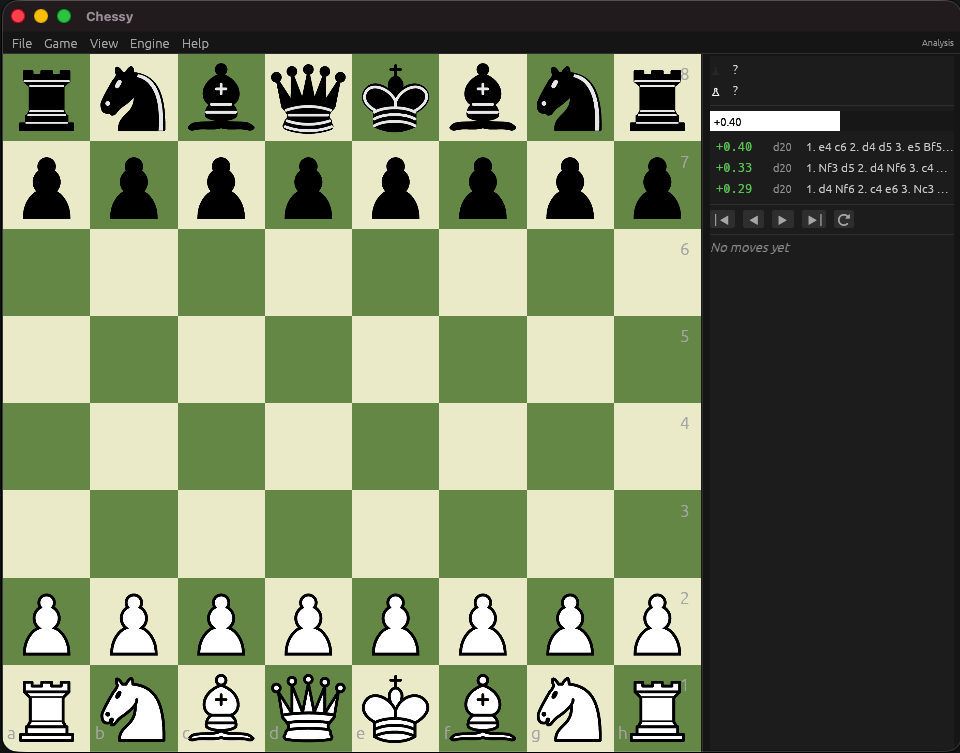
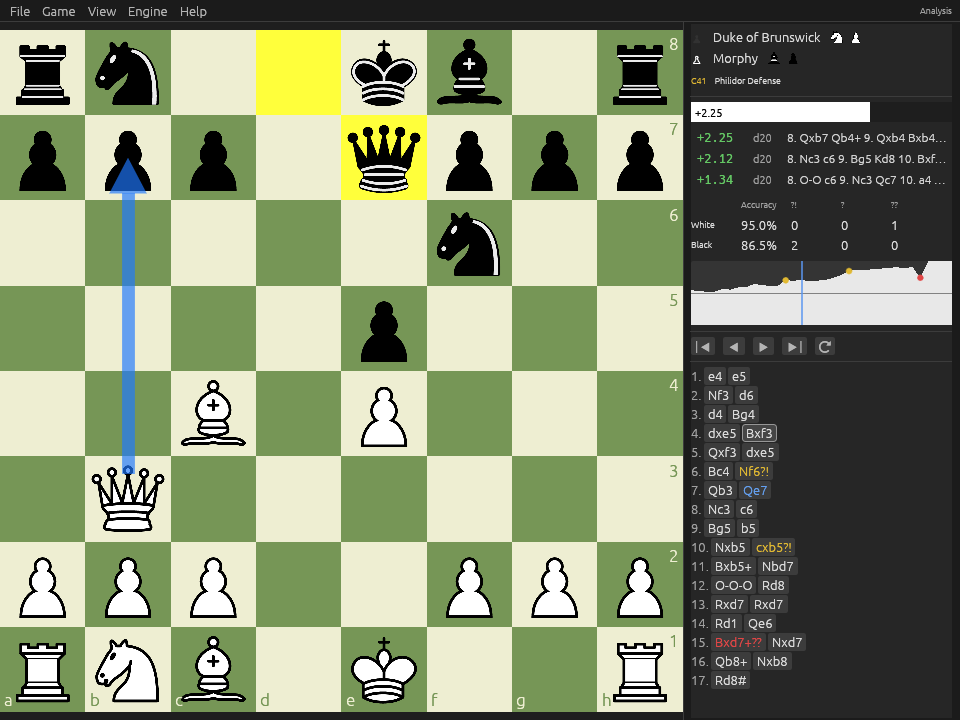
Update the README with the new features and a new screenshot

diff --git a/README.md b/README.md
@@ -10,11 +10,45 @@
 
 ## Features
 
-- Native desktop UI powered by [egui](https://github.com/emilk/egui)
-- [Stockfish](https://stockfishchess.org/) engine integration with multi-line evaluation
-- Evaluation panel with score, depth, and suggested move sequences
-- PGN import/export
-- Move history navigation
+**Analysis**
+
+- [Stockfish](https://stockfishchess.org/) engine integration with multi-line evaluation, depth, and suggested move sequences
+- Best-move arrow on the board, plus your own arrows and square marks (right-drag and right-click)
+- Game review: accuracy per side, inaccuracy / mistake / blunder marks in the move list, and a clickable evaluation graph
+- Opening names with ECO codes, matched by position so transpositions are recognised
+- Variations: try another move at any point without losing the original line, switch between lines, promote or delete them
+- Set up any position, or paste a FEN
+
+**Playing against the engine**
+
+- Strength presets or a custom Elo limit
+- Chess clocks: 1+0, 3+2, 5+0, 10+0, 15+10 and 30+0, with increments and loss on time
+- Takeback, hint and resign, and "Play from Current Position" to continue any position against the engine
+- Draws by threefold repetition and the fifty-move rule, with sounds for moves, captures, draws, wins and losses
+
+**Games and files**
+
+- PGN import and export, including variations; Copy PGN to the clipboard
+- Multi-game PGN files open in a game picker with filtering
+- `chessy game.pgn` opens a file on launch
+
+**Board and interface**
+
+- Native desktop UI powered by [egui](https://github.com/emilk/egui), with dark and light themes
+- Three piece sets and four board colour themes, optional coordinates, and move animation
+- Captured pieces and material balance beside the player names
+- Move history navigation and board flipping
+
+## Controls
+
+| Action | Control |
+|---|---|
+| Step through moves | `←` / `→`, `Home` / `End` |
+| Flip board | `F` |
+| New game, open PGN, save PGN | `Ctrl/Cmd+N`, `Ctrl/Cmd+O`, `Ctrl/Cmd+S` |
+| Copy PGN | `Ctrl/Cmd+Shift+C` |
+| Draw an arrow / mark a square | Right-drag / right-click on the board |
+| Clear arrows and marks | Left-click on the board |
 
 ## Install
 
